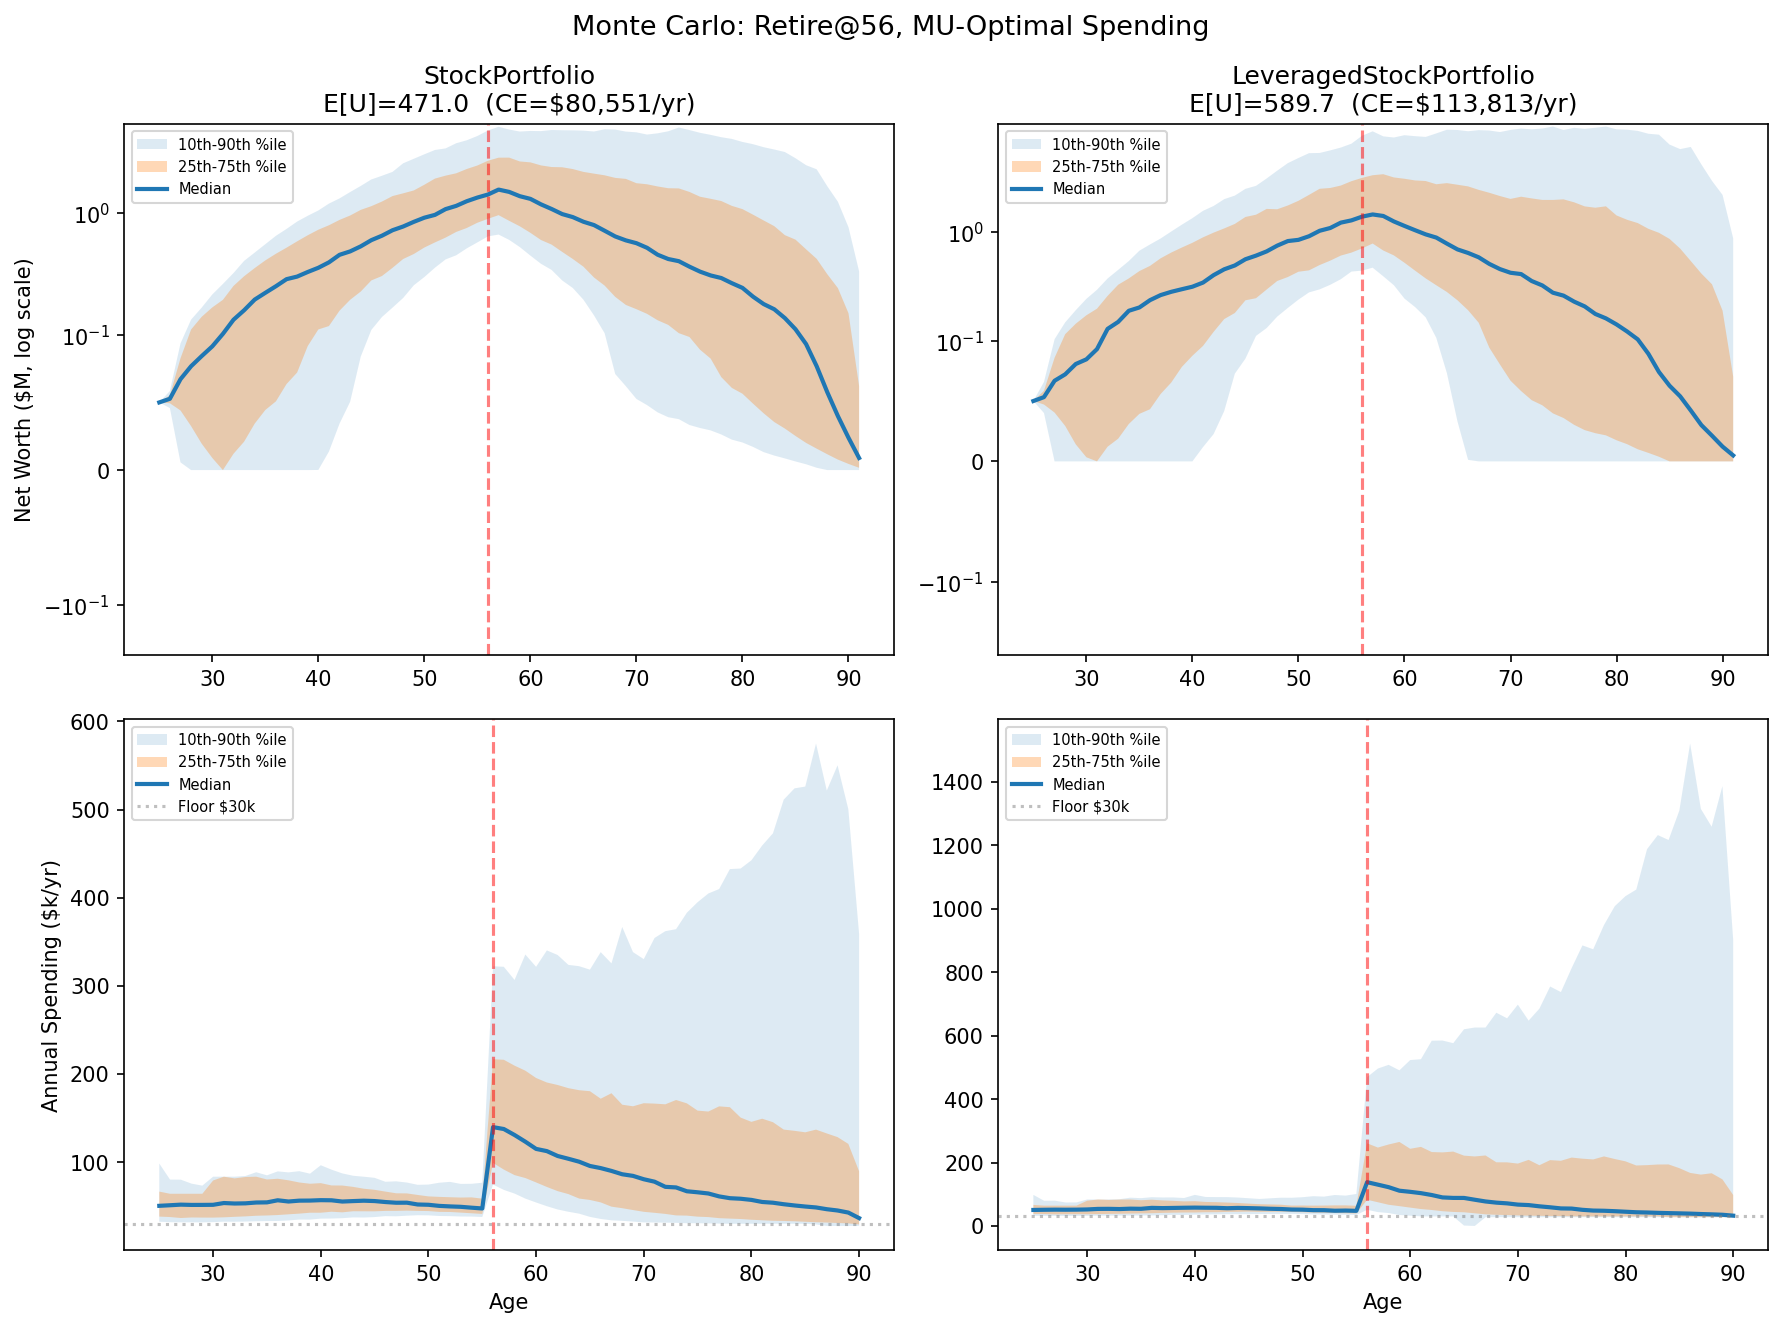
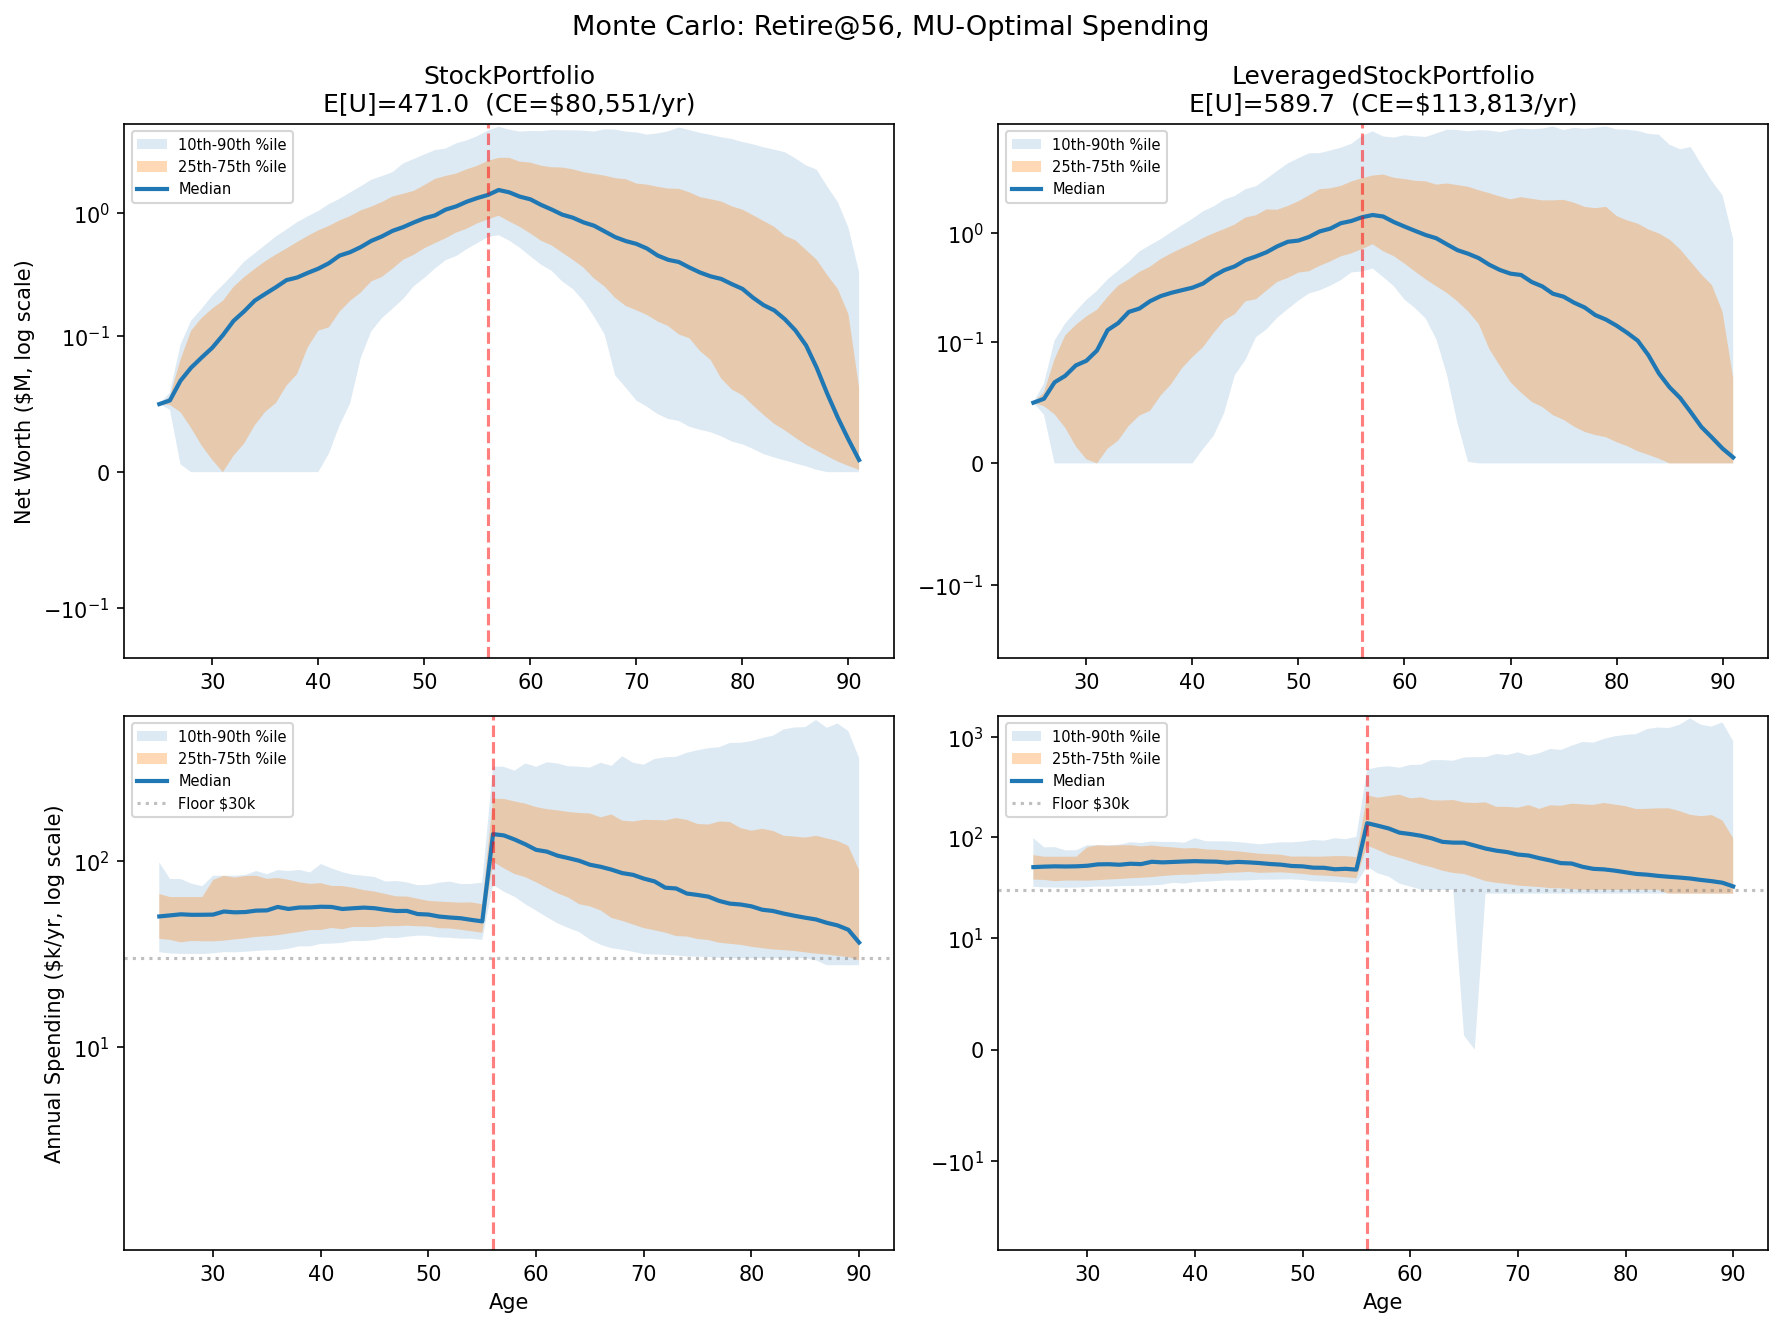
Use log scale for spending charts, remove plan.md
Monte Carlo spending panel now uses symlog scale (linthresh=10) to show
the wide spending range from MU-optimal allocation more clearly.

https://claude.ai/code/session_01236Zney1KiVQQhg5QPK66n

diff --git a/generate_advice.py b/generate_advice.py
@@ -370,10 +370,11 @@ for col, (name, data) in enumerate(show_portfolios.items()):
     ax_sp.axvline(x=opt_retire, color='r', linestyle='--', alpha=0.5)
     ax_sp.axhline(y=config.spending_floor, color='gray', linestyle=':', alpha=0.5,
                    label=f'Floor ${config.spending_floor:.0f}k')
+    ax_sp.set_yscale('symlog', linthresh=10)
     ax_sp.set_xlabel('Age')
     ax_sp.legend(fontsize=7)
     if col == 0:
-        ax_sp.set_ylabel('Annual Spending ($k/yr)')
+        ax_sp.set_ylabel('Annual Spending ($k/yr, log scale)')
 
 fig.suptitle(f'Monte Carlo: Retire@{opt_retire}, MU-Optimal Spending', fontsize=13)
 plt.tight_layout()
